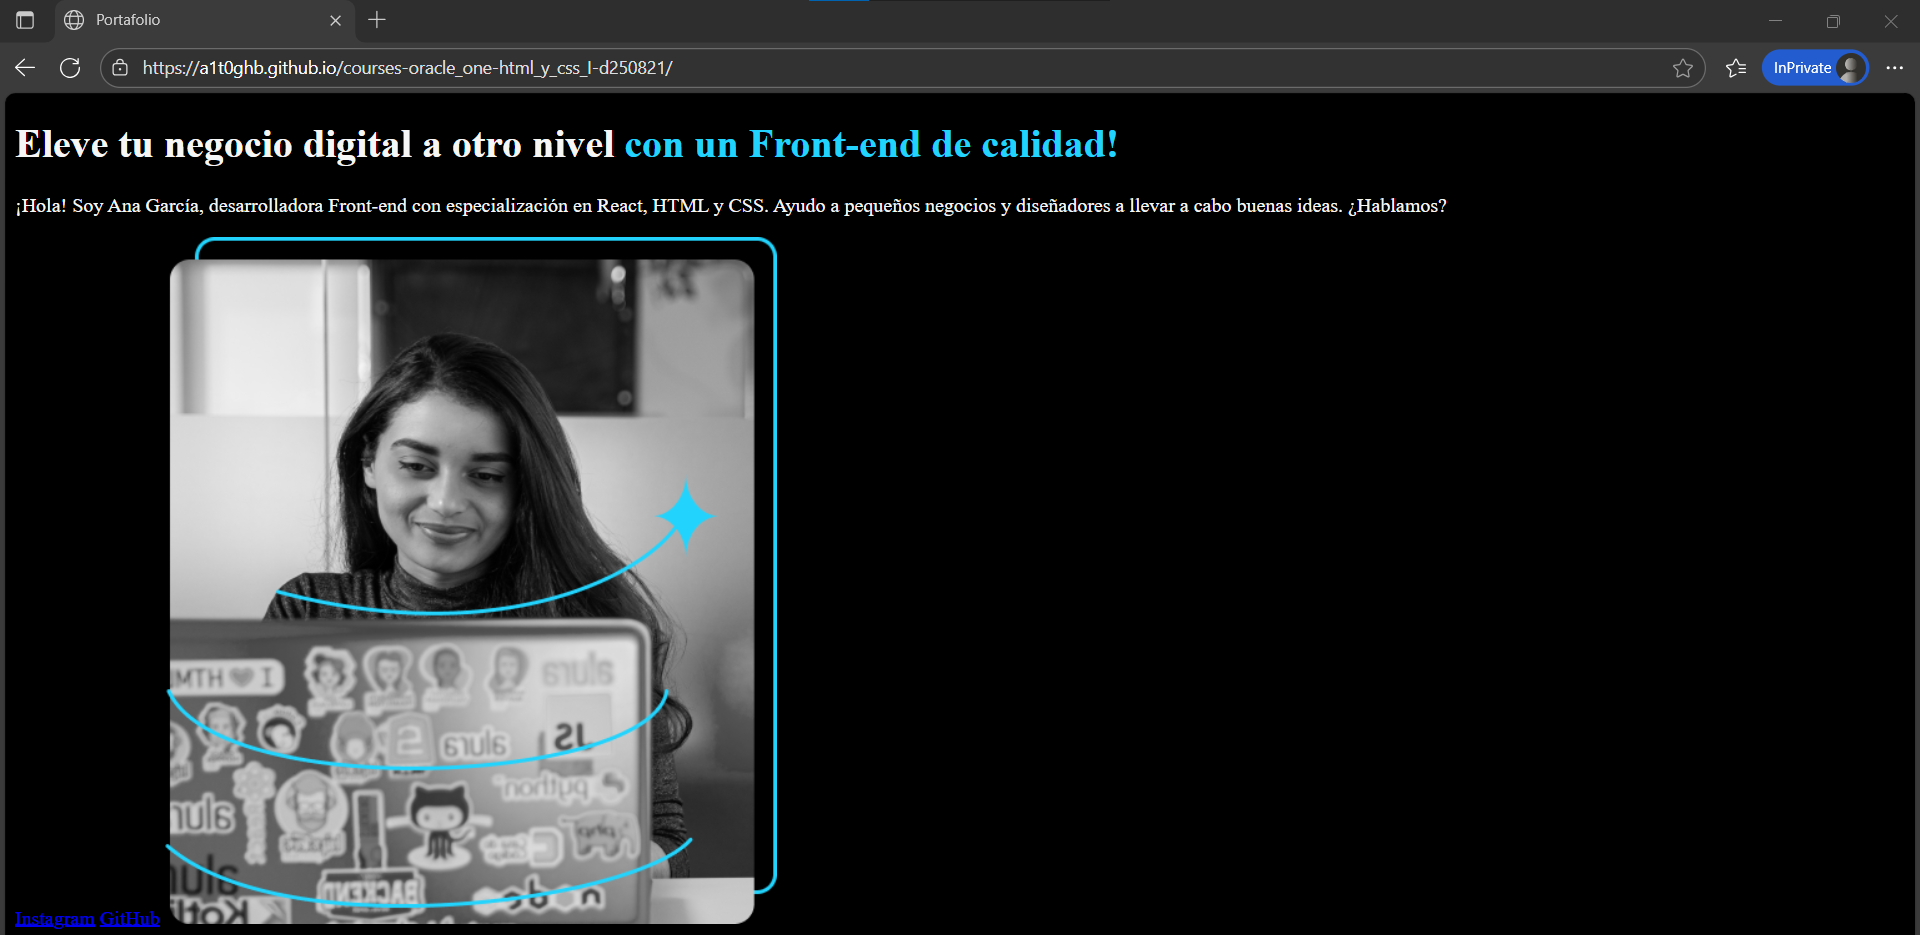
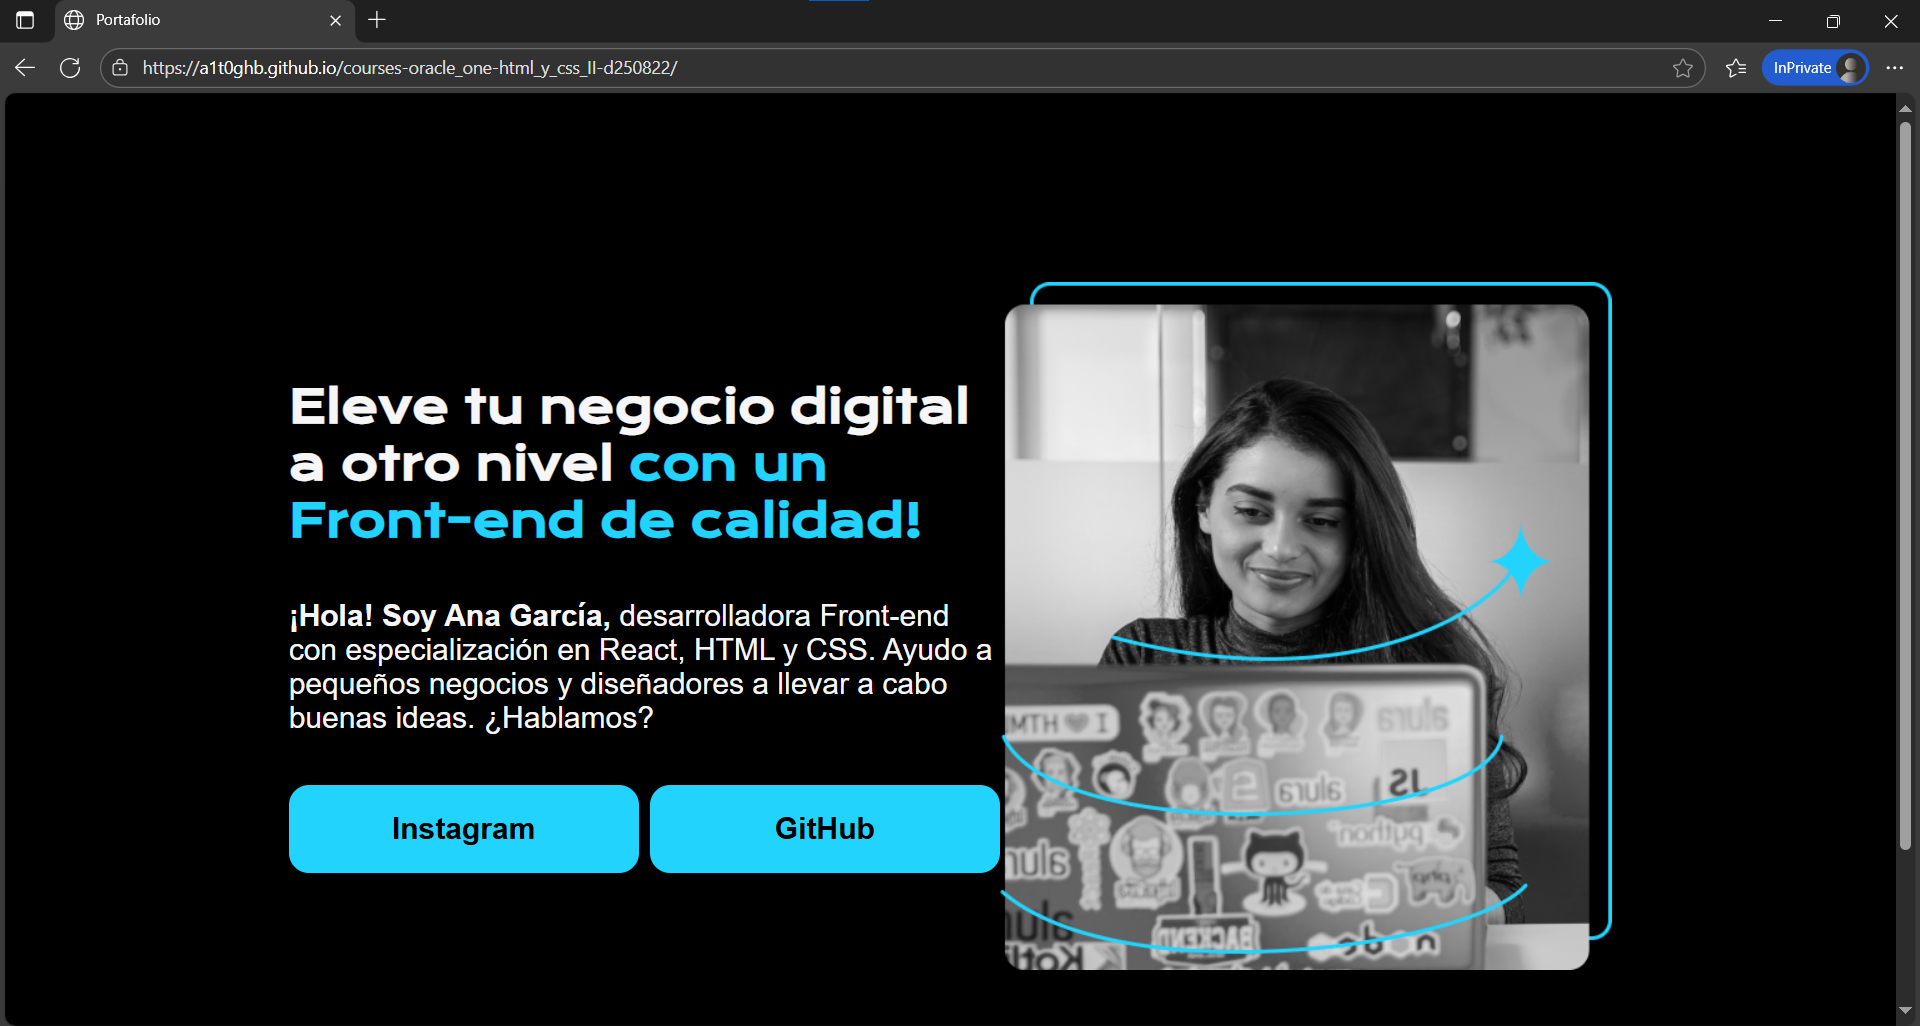
doc: update 'README.md'

diff --git a/README.md b/README.md
@@ -5,16 +5,16 @@
 - HTML <a> tag not redirecting: 'https://stackoverflow.com/questions/8260546/make-a-html-link-that-does-nothing-literally-nothing/8260561#8260561', 'https://www.geeksforgeeks.org/html/how-to-create-html-link-that-does-not-follow-the-link/'.
 -->
 
-<!-- Badge: WIP -->
+<!-- Badge: WIP
 <p align="left">
   <a href="#" onclick="return false;"><img src="https://img.shields.io/badge/STATUS-WIP-yellow?style=flat" /></a>
 </p>
+-->
 
-<!-- Badge: Done
+<!-- Badge: Done -->
 <p align="left">
   <a href="#" onclick="return false;"><img src="https://img.shields.io/badge/STATUS-DONE-green?style=flat" /></a>
 </p>
--->
 
 <!-- README structure followed:
 - 'https://www.aluracursos.com/blog/como-escribir-un-readme-increible-en-tu-github/'.
@@ -24,3 +24,81 @@
 -->
 
 # Basics of HTML and CSS (II).
+
+<p align="center">
+  🌐 '<a href="https://a1t0ghb.github.io/courses-oracle_one-html_y_css_II-d250822/">https://a1t0ghb.github.io/courses-oracle_one-html_y_css_II-d250822/</a>'
+</p>
+
+<!--
+Enable autoplay of animated images:
+- 'https://stackoverflow.com/questions/72508378/enable-gif-autoplay-on-github-readme/72509078#72509078'.
+- 'https://github.com/orgs/community/discussions/47709'.
+- 'https://github.com/settings/accessibility'.
+Image width for GitHub READMEs:
+- 'https://github.com/orgs/community/discussions/42424'.
+- 'https://gist.github.com/uupaa/f77d2bcf4dc7a294d109'.
+-->
+<p align="center">
+  <img src="rsrcs/media/img-readme_frontpage_media.png" width="1200" />
+</p>
+
+Final delivery of the 8th course: '[HTML y CSS: Clases, Posicionamiento y Flexbox](https://app.aluracursos.com/course/html-css-clases-posicionamiento-flexbox)', from module (a.k.a. 'formación' in spanish) '[Principiante en Programación G9 - ONE](https://app.aluracursos.com/formacion-programacion-primeros-pasos-grupo9-one)', of [Alura LATAM](https://www.aluracursos.com/). <b>Part of [ORACLE Next Education (ONE)](https://www.oracle.com/co/education/oracle-next-education/) education program, in LATAM</b>.
+
+<!-- Callouts:
+- Improved format taken from examples in 'https://github.com/nasa/openmct/blob/master/README.md?plain=1'.
+-->
+> [!NOTE]
+> This README is **mainly** written in english (en), but it might have some sections in spanish (sp), since course content is in spanish.
+
+# ℹ About.
+
+The course covered topics such as:
+
+- Understanding classes and selectors, and how to define and use them.
+- Understanding underlying concpet of the 'box model' and it's layout distribution in 4 main elements: **margin**, **border**, **padding**, and the content itself.
+- Being aware of '[reset CSS](https://meyerweb.com/eric/tools/css/reset/)' as way of managing consistency accross different browsers.
+- Declaring classes and using ['flexbox'es](https://css-tricks.com/snippets/css/a-guide-to-flexbox/) as containers for managing positioning of elements.
+- Getting to know font resources, such as '[Google Fonts](https://fonts.google.com/)'.
+
+## 🥇 Course Certificate of Completion.
+
+Available at '<https://app.aluracursos.com/certificate/79c30570-2e25-4f4a-8fbb-918e01b07822>'.
+
+- Estimated workload: 6h.
+- Activities: 44.
+- Topics:
+    1. 'Selectores y posicionamiento'.
+    2. 'Posicionando más elementos'.
+    3. 'Estilo de texto y fuentes'.
+    4. 'Manejando los botones'.
+    5. 'Ajustando los espacios'.
+
+## 🔗 Links to program resources.
+
+**PROGRAM STRUCTURE.**
+
+- <b>*[Course]* 'HTML y CSS: Clases, Posicionamiento y Flexbox'</b>: '<https://app.aluracursos.com/course/html-css-clases-posicionamiento-flexbox/>'.
+- *[Module]* 'Principiante en Programación G9 - ONE': '<https://app.aluracursos.com/formacion-programacion-primeros-pasos-grupo9-one/>'.
+- **ORACLE Next Education (ONE) education program, in LATAM**: '<https://www.oracle.com/co/education/oracle-next-education/>'.
+- Alura LATAM education platform: '<https://www.aluracursos.com/>'.
+
+**COURSE RESOURCES.**
+
+- GitHub's project repository: '<https://github.com/alura-es-cursos/2074-html-css-posicionamiento-flexbox/>'.
+- Figma's frontend to emulate: '<https://www.figma.com/design/D464FfN417KSWJHIUVpMnX/Portafolio---Curso>'.
+
+<!-- Embed dynamic content (image) of contributors:
+- 'https://dev.to/lacolaco/introducing-contributors-img-keep-contributors-in-readme-md-gci'.
+- 'https://contrib.rocks/'.
+-->
+# 🤝 Contributors.
+
+🚧 WIP: under construction. 🚧
+
+<!-- Authors table structure
+- From repo: 'https://github.com/camilafernanda/GlicoCare/blob/main/README.md?plain=1'.
+-->
+# 📜 Authors.
+
+| [<img src="https://avatars.githubusercontent.com/u/32377614?v=4" width=70><br><sub>a1t0ghb</sub>](https://github.com/a1t0ghb) |
+| :---: |
